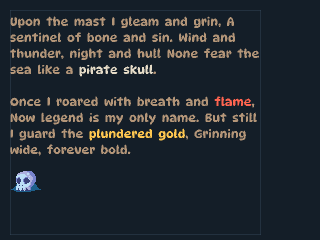
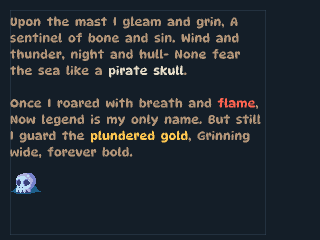
qa: Fix mdash bonanza

diff --git a/simulator/examples/colors.py b/simulator/examples/colors.py
@@ -1,11 +1,11 @@
-# Three ways to build a spread of colour — and why they look so different.
+# Three ways to build a spread of colour - and why they look so different.
 #
 #   color.hsv(h, s, v)        h, s, v   0-255 (h runs once around the hue wheel)
 #   color.oklch(L, C, h, a)   L, C, a   0-255, hue in degrees (perceptually even)
 #   color.rgb(r, g, b)        channels  0-255
 #
 # Watch the *brightness* along each bar. HSV sweeps hue evenly but its yellow
-# glares while its blue sinks — equal v, very unequal perceived lightness. OKLCH
+# glares while its blue sinks - equal v, very unequal perceived lightness. OKLCH
 # sweeps the same hues but holds a flat perceived lightness (L and C fixed). And
 # a straight RGB channel blend between two vivid colours slumps through a muddy
 # grey middle, because RGB isn't a perceptual space at all.
@@ -22,15 +22,15 @@ def bar(y, h, label, fn):
     screen.text(label, X, y - 14)
 
 while True:
-    # HSV — even hue steps, lurching perceived brightness.
+    # HSV - even hue steps, lurching perceived brightness.
     bar(34, 46, "HSV    hue sweep, s = v = max",
         lambda t: color.hsv(t * 255, 255, 255))
 
-    # OKLCH — even hue steps AND even perceived lightness (L, C held constant).
+    # OKLCH - even hue steps AND even perceived lightness (L, C held constant).
     bar(112, 46, "OKLCH  hue sweep, L / C fixed",
         lambda t: color.oklch(170, 110, t * 360, 255))
 
-    # RGB — a linear channel blend lime -> magenta passes through grey.
+    # RGB - a linear channel blend lime -> magenta passes through grey.
     bar(190, 46, "RGB    blend lime -> magenta",
         lambda t: color.rgb(int(t * 255), int((1 - t) * 255), int(t * 255)))
 

diff --git a/simulator/examples/buttons.py b/simulator/examples/buttons.py
@@ -1,7 +1,7 @@
 # Reading buttons. badge.update() polls them once per frame:
-#   badge.pressed()  — true on the frame a button goes down
-#   badge.held()     — true the whole time a button is down
-#   badge.released() — true on the frame a button comes up
+#   badge.pressed()  - true on the frame a button goes down
+#   badge.held()     - true the whole time a button is down
+#   badge.released() - true on the frame a button comes up
 # Test a single button with: BUTTON_A in badge.pressed()
 
 badge.mode(HIRES)

diff --git a/simulator/filesystem/system/apps/demos/demos/raycast.py b/simulator/filesystem/system/apps/demos/demos/raycast.py
@@ -64,7 +64,7 @@ minimap_overlay_mv = memoryview(minimap_overlay)
 minimap_overlay_len = minimap_overlay.width * minimap_overlay.height
 
 
-# @micropython.viper  — a native memset. The viper emitter isn't in the WASM
+# @micropython.viper  - a native memset. The viper emitter isn't in the WASM
 # build, so it's shimmed with the plain-Python loop below (slower, but it runs).
 # def clear(buf: ptr32, length: int):
 #   for i in range(length):
@@ -77,7 +77,7 @@ def clear(buf, length):
 d_proj = (screen.width / 2) / math.tan(player.fov * (math.pi / 180) / 2)
 
 
-# @micropython.native  — also unavailable in the WASM build; runs as plain Python.
+# @micropython.native  - also unavailable in the WASM build; runs as plain Python.
 def update():
   player.pos = vec2(
     math.sin(badge.ticks / 2000) * 2 + 11,

diff --git a/simulator/examples/blur_brush.py b/simulator/examples/blur_brush.py
@@ -1,5 +1,5 @@
 # brush.blur blurs only what's *already on screen* within the shape you draw with
-# it — a frosted-glass window over the backdrop, not the whole frame.
+# it - a frosted-glass window over the backdrop, not the whole frame.
 
 import math
 

diff --git a/simulator/examples/pixelate.py b/simulator/examples/pixelate.py
@@ -1,5 +1,5 @@
 # brush.pixelate mosaics whatever's already on screen inside the shape you draw,
-# its block size pulsing — like a censor bar that follows the circle.
+# its block size pulsing - like a censor bar that follows the circle.
 
 import math
 

diff --git a/simulator/examples/raycast.py b/simulator/examples/raycast.py
@@ -70,7 +70,7 @@ minimap_overlay_mv = memoryview(minimap_overlay)
 minimap_overlay_len = minimap_overlay.width * minimap_overlay.height
 
 
-# @micropython.viper  — a native memset. The viper emitter isn't in the WASM
+# @micropython.viper  - a native memset. The viper emitter isn't in the WASM
 # build, so it's shimmed with the plain-Python loop below (slower, but it runs).
 # def clear(buf: ptr32, length: int):
 #   for i in range(length):

diff --git a/simulator/examples/shape.py b/simulator/examples/shape.py
@@ -1,6 +1,6 @@
 # shape.custom(outer, hole) builds a vector shape (here a square with a square
 # hole) that you draw with screen.shape(). Its .transform is a mat3 you can
-# translate / scale / rotate — set it per draw to stamp the shape many times.
+# translate / scale / rotate - set it per draw to stamp the shape many times.
 
 import math
 

diff --git a/simulator/examples/text.py b/simulator/examples/text.py
@@ -1,5 +1,5 @@
 # text.tokenise() + text.draw() lay out word-wrapped rich text inside a rect.
-# [tags] in the string call your glyph_renderers — here to change pen colour
+# [tags] in the string call your glyph_renderers - here to change pen colour
 # mid-sentence and to blit an inline skull image.
 
 import math

diff --git a/simulator/examples/transform_sprite.py b/simulator/examples/transform_sprite.py
@@ -1,5 +1,5 @@
 # Draw a sprite through an arbitrary mat3 by filling its rectangle with
-# brush.image — letting you rotate and scale about any pivot, which plain blit
+# brush.image - letting you rotate and scale about any pivot, which plain blit
 # can't do.
 
 import math

diff --git a/simulator/examples/triangles.py b/simulator/examples/triangles.py
@@ -1,4 +1,4 @@
-# screen.triangle(p1, p2, p3) fills a triangle from three vec2 points — a field
+# screen.triangle(p1, p2, p3) fills a triangle from three vec2 points - a field
 # of random ones jittering around drifting centres.
 
 import math

diff --git a/simulator/examples/vector_shapes.py b/simulator/examples/vector_shapes.py
@@ -1,5 +1,5 @@
 # A tour of the shape factory: rectangle, circle, ellipse, star, squircle, pie,
-# arc, regular_polygon and line — each shown filled and again as a .stroke()
+# arc, regular_polygon and line - each shown filled and again as a .stroke()
 # outline, all spun and scaled through a mat3 transform.
 
 import math

diff --git a/simulator/examples/vector_text.py b/simulator/examples/vector_text.py
@@ -51,7 +51,7 @@ while True:
   i %= 10
 
   size = (math.sin(badge.ticks / 1000) * 5) + 15
-  message = """[pen:180,150,120]Upon the mast I gleam and grin, A sentinel of bone and sin. Wind and thunder, night and hull— None fear the sea like a [pen:230,220,200]pirate skull[pen:180,150,120].
+  message = """[pen:180,150,120]Upon the mast I gleam and grin, A sentinel of bone and sin. Wind and thunder, night and hull- None fear the sea like a [pen:230,220,200]pirate skull[pen:180,150,120].
 
 Once I roared with breath and [pen:255,100,80]flame[pen:180,150,120], Now legend is my only name. But still I guard the [pen:255,200,80]plundered gold[pen:180,150,120], Grinning wide, forever bold.
 